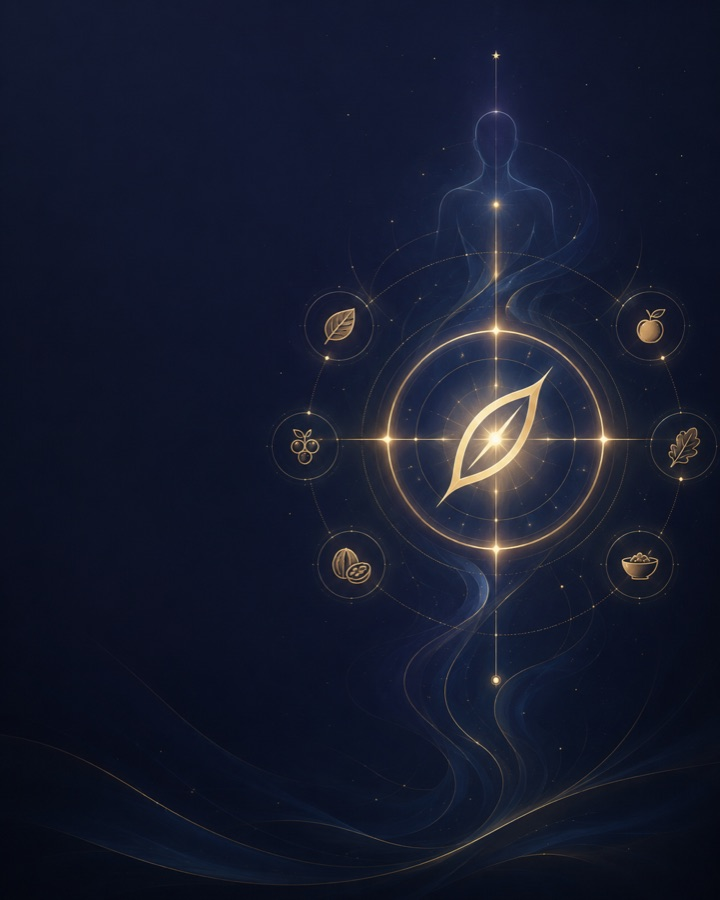
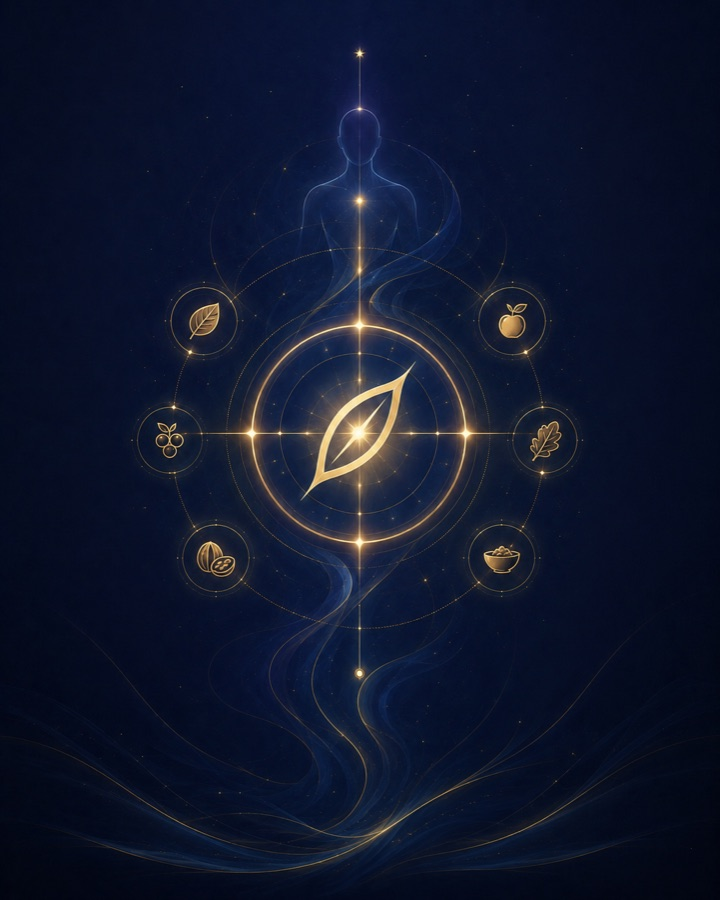
Refine catalog visuals

diff --git a/assets/styles.css b/assets/styles.css
@@ -961,27 +961,11 @@ p {
   text-align: center;
 }
 
-.search-row {
-  display: grid;
-  grid-template-columns: 1fr 44px;
-  gap: 9px;
-}
-
-.search-field,
 .form-grid label,
 .promo-row input {
   border: 1px solid var(--line-cool);
   border-radius: var(--radius);
   background: rgba(7, 12, 22, 0.84);
-}
-
-.search-field {
-  display: grid;
-  grid-template-columns: 34px 1fr;
-  align-items: center;
-  min-height: 46px;
-  padding: 0 12px;
-  color: var(--muted);
 }
 
 input {
@@ -1196,8 +1180,27 @@ input::placeholder {
 }
 
 .product-card-icon .astro-symbol {
-  width: 31px;
-  height: 31px;
+  width: 45px;
+  height: 45px;
+}
+
+.module-sigil .sigil-ring,
+.module-sigil .sigil-orbit {
+  stroke: rgba(255, 228, 168, 0.34);
+  stroke-width: 1.05;
+}
+
+.module-sigil .sigil-north {
+  fill: rgba(255, 228, 168, 0.82);
+  filter: drop-shadow(0 0 4px rgba(255, 228, 168, 0.34));
+}
+
+.module-sigil .sigil-glyph {
+  stroke: var(--gold-soft);
+  stroke-width: 1.45;
+  stroke-linecap: round;
+  stroke-linejoin: round;
+  fill: none;
 }
 
 .product-card h3 {

diff --git a/assets/app.js b/assets/app.js
@@ -220,8 +220,6 @@ const products = [
     symbol: "leaf",
     price: 990,
     funnel: true,
-    mediaX: "38%",
-    mediaScale: "1.1",
     ru: {
       title: "Какие продукты мне подходят",
       description: "Персональные рекомендации для здоровья и энергии.",
@@ -262,8 +260,6 @@ const products = [
     category: "body",
     symbol: "bolt",
     price: 10000,
-    mediaX: "36%",
-    mediaScale: "1.1",
     ru: {
       title: "Где моя энергия?",
       description: "Диагностика утечек и восстановление ресурса.",
@@ -285,8 +281,6 @@ const products = [
     symbol: "crystal",
     price: 990,
     funnel: true,
-    mediaX: "38%",
-    mediaScale: "1.1",
     ru: {
       title: "Камни-талисманы",
       description: "Подберите камни силы под вашу энергию.",
@@ -534,7 +528,14 @@ function symbolSvg(symbol = "star") {
     cards: '<rect x="5" y="4" width="9" height="14" rx="1.5" transform="rotate(-8 9.5 11)"></rect><rect x="10" y="6" width="9" height="14" rx="1.5" transform="rotate(8 14.5 13)"></rect><path d="M14.5 10.5 16 13l-1.5 2.5L13 13l1.5-2.5Z"></path>',
     video: '<circle cx="12" cy="12" r="8"></circle><path d="M10 8.5 16 12l-6 3.5v-7Z"></path>',
   };
-  return `<svg class="astro-symbol" viewBox="0 0 24 24" aria-hidden="true">${icons[symbol] || icons.star}</svg>`;
+  return `
+    <svg class="astro-symbol module-sigil" viewBox="0 0 64 64" aria-hidden="true">
+      <circle class="sigil-ring" cx="32" cy="32" r="25"></circle>
+      <ellipse class="sigil-orbit" cx="32" cy="32" rx="25" ry="9" transform="rotate(-18 32 32)"></ellipse>
+      <path class="sigil-north" d="M32 5.5 33.7 12.2 40 14.5 33.7 16.8 32 23.5 30.3 16.8 24 14.5 30.3 12.2 32 5.5Z"></path>
+      <g class="sigil-glyph" transform="translate(8 9) scale(2)">${icons[symbol] || icons.star}</g>
+    </svg>
+  `;
 }
 
 function renderTranslations() {
@@ -736,7 +737,7 @@ document.querySelector("[data-lang-toggle]")?.addEventListener("change", (event)
   renderAll();
 });
 
-document.querySelector("[data-search]").addEventListener("input", (event) => {
+document.querySelector("[data-search]")?.addEventListener("input", (event) => {
   state.query = event.target.value;
   renderProducts();
 });

diff --git a/index.html b/index.html
@@ -108,16 +108,6 @@
             <h2 id="catalogTitle" data-i18n="modulesTitle">Модули</h2>
           </div>
 
-          <div class="search-row">
-            <label class="search-field">
-              <span aria-hidden="true">⌕</span>
-              <input type="search" data-search data-i18n-placeholder="searchPlaceholder" placeholder="Поиск по модулям...">
-            </label>
-            <button class="icon-button" type="button" data-route="admin" aria-label="Admin preview">
-              <span aria-hidden="true">☷</span>
-            </button>
-          </div>
-
           <div class="chips" role="tablist" aria-label="Categories">
             <button class="chip active" type="button" data-category="all" data-i18n="catAll">Все</button>
             <button class="chip" type="button" data-category="love" data-i18n="catLove">Любовь</button>